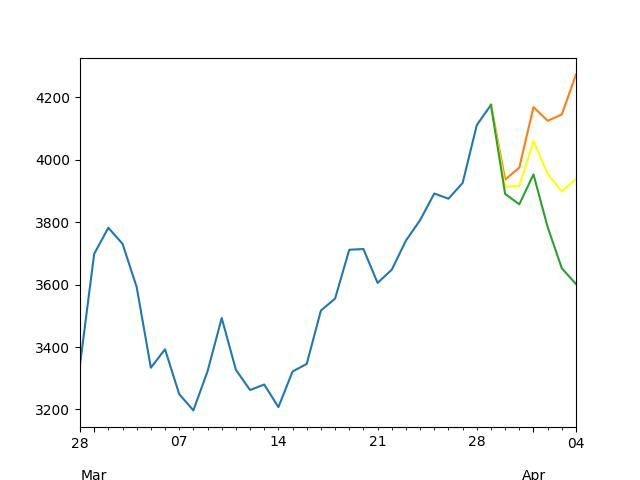
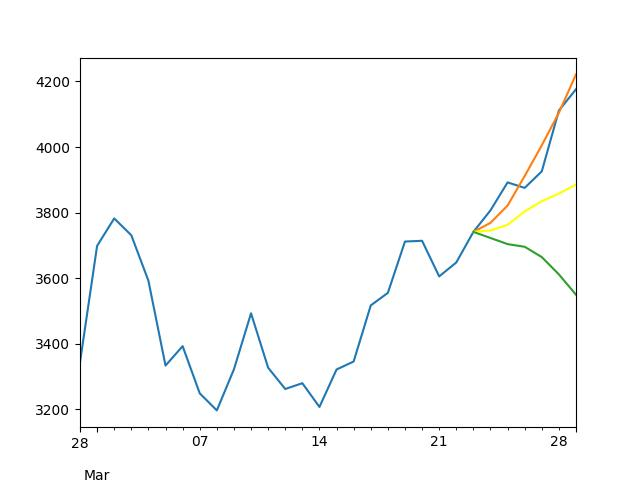
changes to graphs

diff --git a/dashboard/scripts/coin_info/sentiment_heatmap.js b/dashboard/scripts/coin_info/sentiment_heatmap.js
@@ -104,14 +104,14 @@ var heatMapColor = d3.scaleSequential()
     .interpolator(d3.interpolateInferno)
     .domain([0, 1])
 
-day_summary_data = new Object();
+var day_summary_data = new Object();
 
 function sentiment_heatmap(selectedGroup) {
     var selectedGroup = selectedGroup.split("_").join(" ")
 
     var keywords_of_interest = Object.values(coin_map_to_name[selectedGroup.toLowerCase()])
 
-    var day_summary_data = new Object();
+    day_summary_data = new Object();
     var rearranged_data = new Object();
     var highest_val = 0;
     var lowest_val = 0;
@@ -132,21 +132,17 @@ function sentiment_heatmap(selectedGroup) {
         if(overall_score < lowest_val){
             lowest_val = overall_score
         }
-
-        day_summary_data[val.timestamp] = day_summary_data[val.timestamp] == null ? overall_score : (day_summary_data[val.timestamp] + overall_score);
+        day_summary_data[val.timestamp + ""] = day_summary_data[val.timestamp  + ""] == null ? overall_score : (day_summary_data[val.timestamp + ""] + overall_score);
     });
-
 
     heat_svg.selectAll(".sentiment_map")
         .transition()
         .duration(1000)
         .style("fill", function (d) {
-            console.log(rearranged_data[d.timestamp + ":" + d.subreddit])
             if (rearranged_data[d.timestamp + ":" + d.subreddit] != null) {
                 //return heatMapColor(rearranged_data[d.timestamp + ":" + d.subreddit] / highest_val);
                 return heatMapColor(Math.log(rearranged_data[d.timestamp + ":" + d.subreddit])/ Math.log(highest_val));
             } else {
-                console.log("Is this running ever?")
                 return heatMapColor(d.val)
             }
         });

diff --git a/dashboard/scripts/coin_info/crypto_linechart.js b/dashboard/scripts/coin_info/crypto_linechart.js
@@ -222,8 +222,10 @@ function update_graph(selectedGroup) {
     
     var sentiment_min = null;
     var sentiment_max = null;
-
+    console.log("runs?")
+    console.log(day_summary_data)
     Object.keys(day_summary_data).forEach(function(key){ 
+        console.log(key)
         if (new_x(key) <= 0) return;
         sentiment_max = sentiment_max == null ? day_summary_data[key] : (sentiment_max < day_summary_data[key] ? day_summary_data[key] : sentiment_max);
         sentiment_min = sentiment_min == null ? day_summary_data[key] : (sentiment_min > day_summary_data[key] ? day_summary_data[key] : sentiment_min);

diff --git a/src/models/VectorAutoRegression.py b/src/models/VectorAutoRegression.py
@@ -10,7 +10,7 @@ logger = logging.getLogger("VAR")
 
 REGRESSION_DAYS_USED = 60
 NUM_OBS = 7
-validate_or_predict = "predict"
+validate_or_predict = "validate"
 
 def create_model(data):
     train = data[:-NUM_OBS]
@@ -205,7 +205,7 @@ if __name__ == "__main__":
 
 
                 else:
-                   
+                
                     # PREDICTING THE FUTURE
                     forecast_data = forecast_data + (actual_data[-1] - forecast_data[0])
                     forecast_up_interval = forecast_up_interval + (actual_data[-1] - forecast_up_interval[0])
@@ -246,9 +246,9 @@ if __name__ == "__main__":
                     plt.figure(coin_name)
                     actual_data[-30:].plot(y="open")
 
-                    forecast_up_interval.plot(y="up_forecast")
-                    forecast_data.plot(y="open_forecast", color="yellow")
-                    forecast_down_interval.plot(y="down_forecast")
+                    forecast_up_interval.plot(y="up_forecast", color="red")
+                    forecast_data.plot(y="open_forecast", color="blue")
+                    forecast_down_interval.plot(y="down_forecast", color="red")
                     plt.savefig("{}/src/models/forecasts/output_{}.jpg".format(project_dir, coin_name))
 
             except Exception as e:
